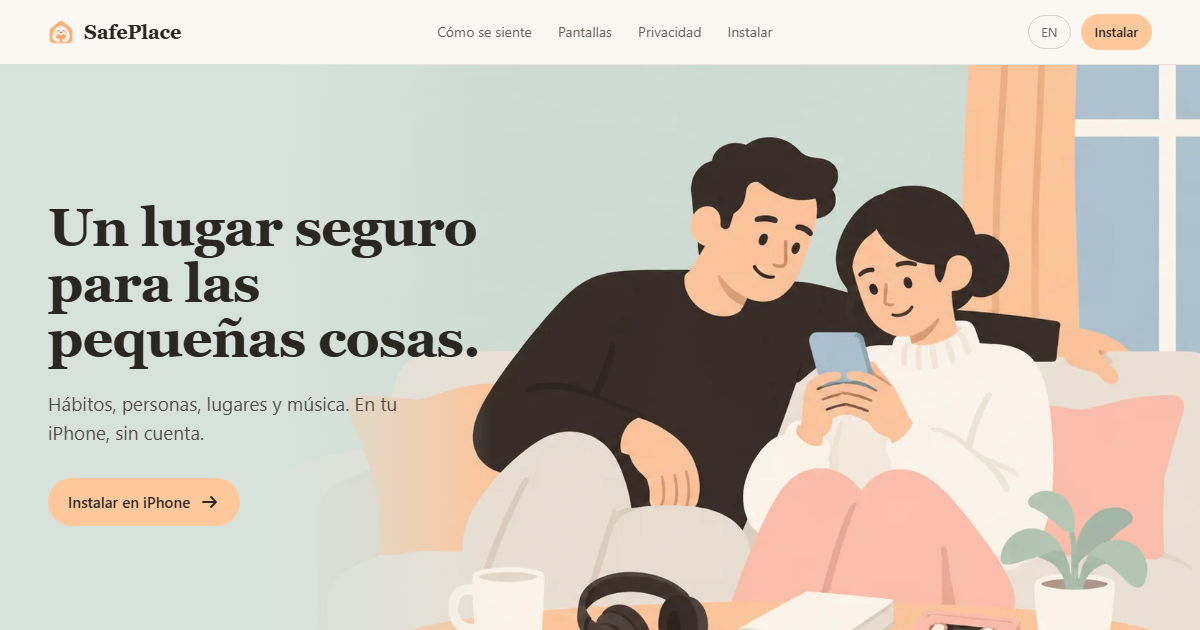
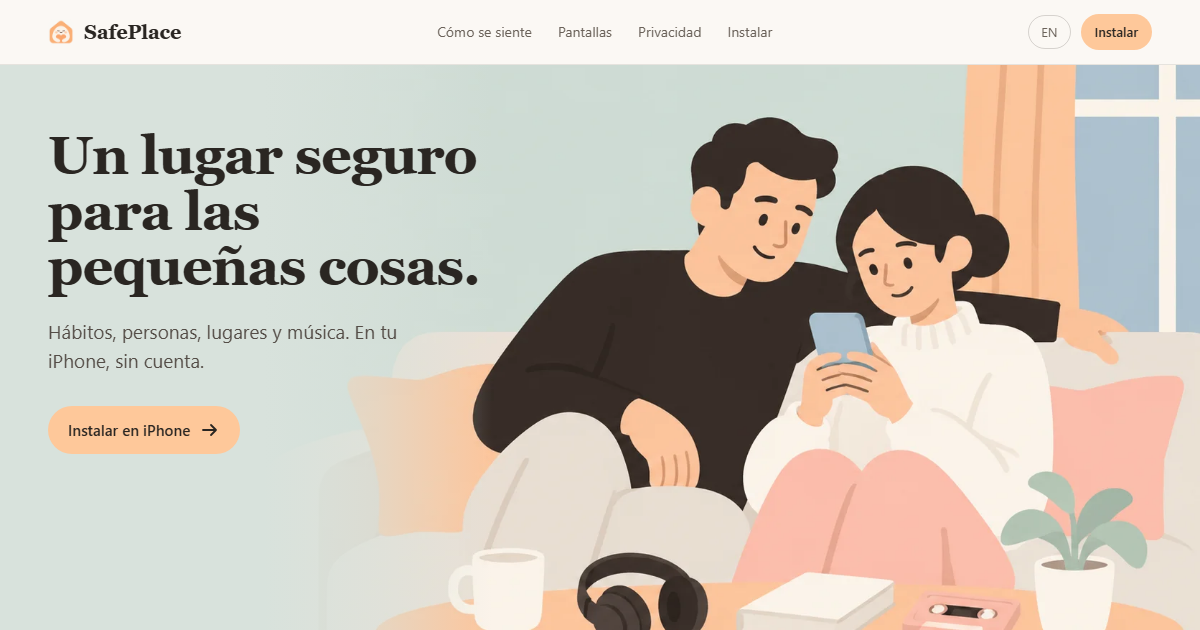
feat(site): capturas reales en el carrusel de pantallas
- Inicio, Diario y Mente salen de capturas reales del iPhone.
- Cada imagen va en WebP a 739x1600 y con su alt descriptivo.
- Se van los marcadores, el notch falso y el logo de relleno.
- El README explica como reemplazarlas.

diff --git a/docs/index.html b/docs/index.html
@@ -142,13 +142,7 @@
         <figure class="device reveal">
           <div class="device-frame">
             <div class="device-screen">
-              <div class="device-notch"></div>
-              <!-- REEMPLAZAR: <img src="assets/shot-home.png" alt="Pantalla de inicio de SafePlace"> -->
-              <div class="shot-slot" data-shot="home">
-                <img class="slot-mascot" src="assets/logo.webp" alt="" width="384" height="373">
-                <b>Inicio</b>
-                <span>captura pendiente</span>
-              </div>
+              <img src="assets/shot-home.webp" alt="Pantalla de inicio de SafePlace: el ánimo del día, la racha y el resumen." width="739" height="1600">
             </div>
           </div>
           <figcaption class="device-cap"><b>Inicio</b>Tu día, tus números, tus notas recientes.</figcaption>
@@ -157,13 +151,7 @@
         <figure class="device reveal">
           <div class="device-frame">
             <div class="device-screen">
-              <div class="device-notch"></div>
-              <!-- REEMPLAZAR: <img src="assets/shot-journal.png" alt="Pantalla de diario de SafePlace"> -->
-              <div class="shot-slot" data-shot="journal">
-                <img class="slot-mascot" src="assets/logo.webp" alt="" width="384" height="373">
-                <b>Diario</b>
-                <span>captura pendiente</span>
-              </div>
+              <img src="assets/shot-journal.webp" alt="Pantalla de diario de SafePlace: la línea de tiempo agrupada por día." width="739" height="1600">
             </div>
           </div>
           <figcaption class="device-cap"><b>Diario</b>Tu línea de tiempo, agrupada por día.</figcaption>
@@ -172,13 +160,7 @@
         <figure class="device reveal">
           <div class="device-frame">
             <div class="device-screen">
-              <div class="device-notch"></div>
-              <!-- REEMPLAZAR: <img src="assets/shot-mind.png" alt="Pantalla del grafo Mente de SafePlace"> -->
-              <div class="shot-slot" data-shot="mind">
-                <img class="slot-mascot" src="assets/logo.webp" alt="" width="384" height="373">
-                <b>Mente</b>
-                <span>captura pendiente</span>
-              </div>
+              <img src="assets/shot-mind.webp" alt="Pantalla Mente de SafePlace: el mapa de notas agrupado por categoría." width="739" height="1600">
             </div>
           </div>
           <figcaption class="device-cap"><b>Mente</b>El grafo de tus notas, agrupado por categoría.</figcaption>

diff --git a/docs/en.html b/docs/en.html
@@ -142,13 +142,7 @@
         <figure class="device reveal">
           <div class="device-frame">
             <div class="device-screen">
-              <div class="device-notch"></div>
-              <!-- REPLACE: <img src="assets/shot-home.png" alt="SafePlace home screen"> -->
-              <div class="shot-slot" data-shot="home">
-                <img class="slot-mascot" src="assets/logo.webp" alt="" width="384" height="373">
-                <b>Home</b>
-                <span>screenshot pending</span>
-              </div>
+              <img src="assets/shot-home.webp" alt="SafePlace home screen: today's mood, streak and summary." width="739" height="1600">
             </div>
           </div>
           <figcaption class="device-cap"><b>Home</b>Your day, your numbers, your recent notes.</figcaption>
@@ -157,13 +151,7 @@
         <figure class="device reveal">
           <div class="device-frame">
             <div class="device-screen">
-              <div class="device-notch"></div>
-              <!-- REPLACE: <img src="assets/shot-journal.png" alt="SafePlace journal screen"> -->
-              <div class="shot-slot" data-shot="journal">
-                <img class="slot-mascot" src="assets/logo.webp" alt="" width="384" height="373">
-                <b>Journal</b>
-                <span>screenshot pending</span>
-              </div>
+              <img src="assets/shot-journal.webp" alt="SafePlace journal screen: the timeline grouped by day." width="739" height="1600">
             </div>
           </div>
           <figcaption class="device-cap"><b>Journal</b>Your timeline, grouped by day.</figcaption>
@@ -172,13 +160,7 @@
         <figure class="device reveal">
           <div class="device-frame">
             <div class="device-screen">
-              <div class="device-notch"></div>
-              <!-- REPLACE: <img src="assets/shot-mind.png" alt="SafePlace Mind graph screen"> -->
-              <div class="shot-slot" data-shot="mind">
-                <img class="slot-mascot" src="assets/logo.webp" alt="" width="384" height="373">
-                <b>Mind</b>
-                <span>screenshot pending</span>
-              </div>
+              <img src="assets/shot-mind.webp" alt="SafePlace Mind screen: the note map grouped by category." width="739" height="1600">
             </div>
           </div>
           <figcaption class="device-cap"><b>Mind</b>The graph of your notes, grouped by category.</figcaption>

diff --git a/docs/landing.css b/docs/landing.css
@@ -126,11 +126,7 @@ h3{font-family:var(--serif);font-weight:600;font-size:22px;line-height:1.25;lett
 .device{background:none;border:0;padding:0}
 .device-frame{position:relative;width:100%;max-width:280px;margin-inline:auto;border-radius:38px;background:var(--surface);border:1px solid var(--hair-strong);padding:9px;box-shadow:none}
 .device-screen{position:relative;aspect-ratio:9/19.5;border-radius:30px;overflow:hidden;background:var(--soft);display:grid;place-items:center}
-.device-notch{position:absolute;left:50%;top:10px;transform:translateX(-50%);width:64px;height:16px;border-radius:999px;background:var(--paper);opacity:.9;z-index:2}
-.shot-slot{position:absolute;inset:0;display:grid;place-content:center;justify-items:center;gap:10px;text-align:center;padding:20px;color:var(--ink-2)}
-.shot-slot .slot-mascot{width:64px;height:auto;opacity:.9}
-.shot-slot b{display:block;font-family:var(--serif);font-size:16px;font-weight:600;color:var(--ink)}
-.shot-slot span{font-size:11.5px;letter-spacing:.06em;text-transform:uppercase}
+.device-screen img{width:100%;height:100%;object-fit:cover;object-position:top center}
 .device-cap{margin:12px auto 0;font-size:13.5px;color:var(--ink-2);text-align:center;max-width:280px}
 .device-cap b{display:block;font-family:var(--serif);font-size:16px;color:var(--ink);font-weight:600;letter-spacing:-.01em}
 .screens-shell{position:relative}

diff --git a/docs/README.md b/docs/README.md
@@ -15,6 +15,9 @@ serif de display, un único acento que cambia con el estado de ánimo.
 | `assets/scene-1.webp` | Escena del tren (1672×941) |
 | `assets/scene-3.webp` | Escena de la cama (1200 px) |
 | `assets/band-kitchen.webp` | Banda de la cocina (1914×822) |
+| `assets/shot-home.webp` | Captura real de la pantalla de inicio (739×1600) |
+| `assets/shot-journal.webp` | Captura real del diario (739×1600) |
+| `assets/shot-mind.webp` | Captura real de Mente (739×1600) |
 | `assets/og.png` | Imagen para compartir (1200×630) |
 | `icon.png` | Icono de la app. **Copia de `AppIcon-1024.png`**: no editar aquí |
 | `source.json` | Feed AltSource. **Lo regenera el CI en cada release** |
@@ -24,34 +27,24 @@ en el mismo dominio: `https://hihirams.github.io/SafePlace-App/`.
 
 ## Cambiar las capturas de la app
 
-La sección **Tres pantallas** usa marcadores con el color del sistema hasta que
-haya capturas reales. Para reemplazarlos, en `index.html` y `en.html` busca los
-comentarios `REEMPLAZAR` / `REPLACE` dentro de `.device-screen`.
+La sección **Tres pantallas** usa capturas reales de la app, ya en proporción
+9:19.5. Para reemplazarlas, en `index.html` y `en.html` busca `shot-home.webp`,
+`shot-journal.webp` y `shot-mind.webp`.
 
-Cada marcador es esto:
-
-```html
-<div class="shot-slot" data-shot="home">
-  <img class="slot-mascot" src="assets/logo.webp" alt="">
-  <b>Inicio</b>
-  <span>captura pendiente</span>
-</div>
-```
-
-Cámbialo por una imagen con la misma proporción (9:19.5):
+Cada una es esto:
 
 ```html
-<img src="assets/shot-home.png" alt="Pantalla de inicio de SafePlace">
+<img src="assets/shot-home.webp" alt="Pantalla de inicio de SafePlace" width="739" height="1600">
 ```
+
+Exporta desde el simulador o el iPhone a 1179×2556 (iPhone 15 Pro) o equivalente,
+convierte a WebP y actualiza `width`, `height` y el `alt`. El marco recorta lo que
+sobre, pero mantén la proporción 9:19.5 para que no se deforme.
 
 En móvil el carrusel **no usa scroll horizontal nativo**: un visor con
 `overflow:hidden` recorta un riel que se mueve por `transform`, y las flechas
 cambian de diapositiva. Si le devuelves `overflow-x:auto`, el gesto horizontal
 vuelve a competir con el scroll vertical de la página.
-
-Nombres sugeridos: `shot-home.png`, `shot-journal.png`, `shot-mind.png`.
-Exporta desde el simulador a 1179×2556 (iPhone 15 Pro) o equivalente; el marco
-recorta lo que sobre.
 
 ## Probar en local
 
